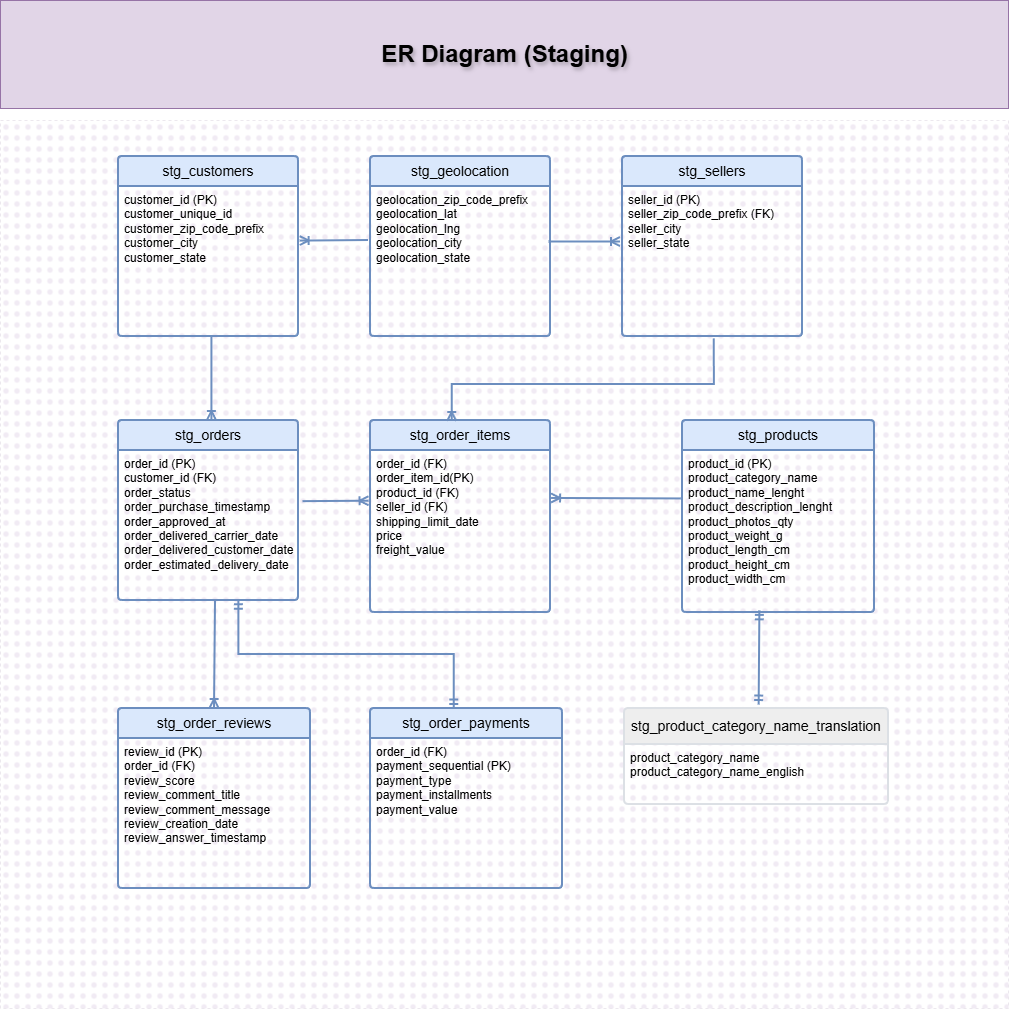
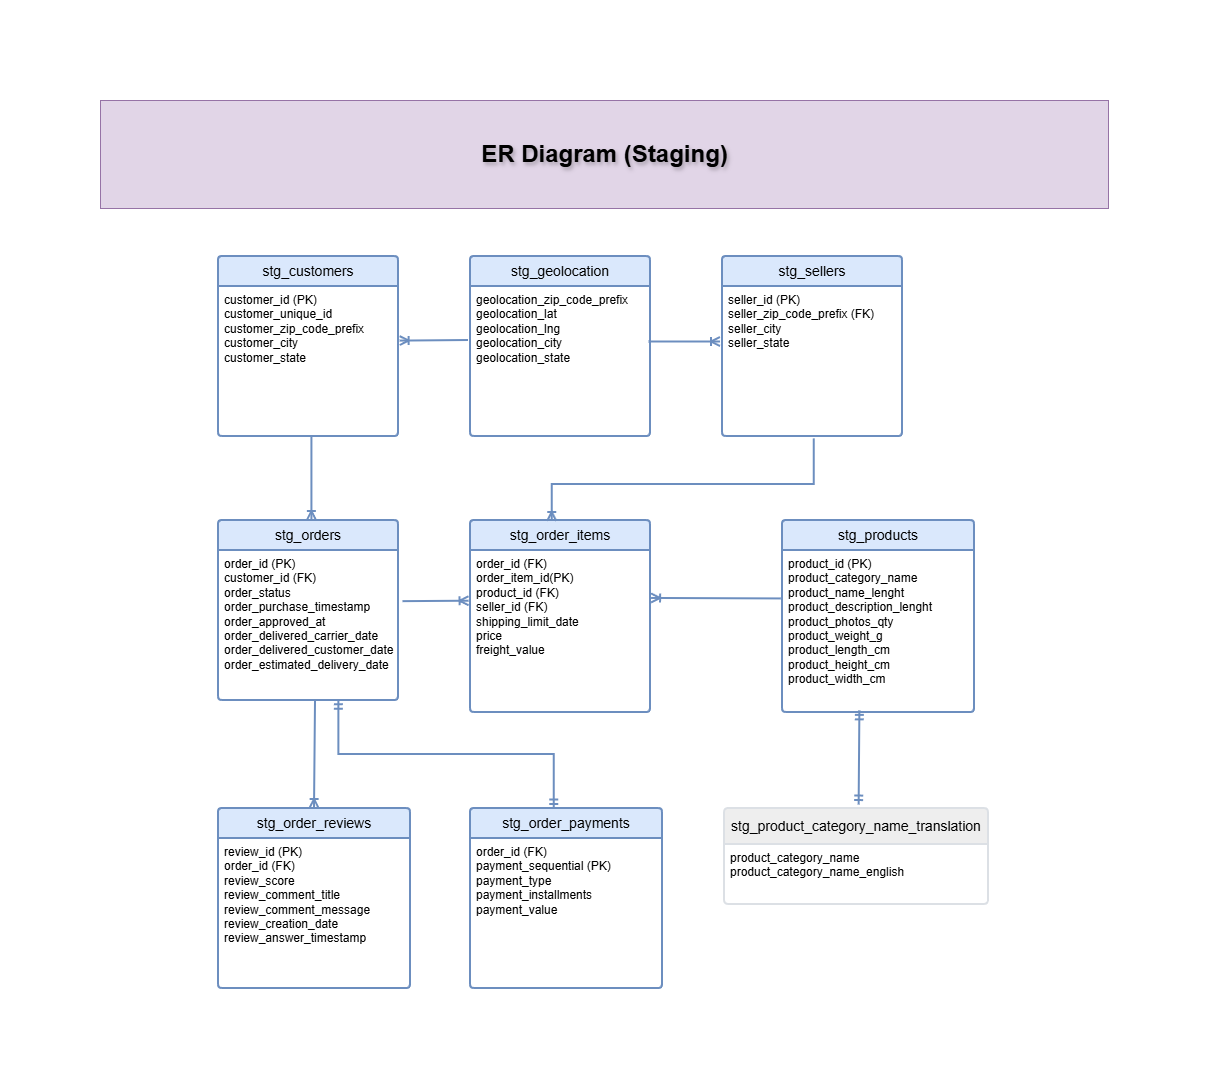
Diagram for Data Architecture Diagram

diff --git a/README.md b/README.md
@@ -19,49 +19,11 @@ This project builds on my SQL skills and applies them to real-world business ana
    
 
 ## 🏗 Data Architecture Diagram  
+ 
 <details>
-       <summary> Run ETL Pipeline</summary>    
-                            
-                                          +--------------+
-                                          |  Raw CSV     |
-                                          | (Olist Data) |
-                                          +--------------+
-                                                 │
-                                                 ▼
-                                          +--------------+
-                                          |   Extract    |
-                                          |  Python ETL  |
-                                          +--------------+
-                                                 │
-                                                 ▼
-                                          +--------------+
-                                          |   Transform  |
-                                          | Data Cleaning|
-                                          +--------------+
-                                                 │
-                                                 ▼
-                                          +--------------+
-                                          |  Staging DB  |
-                                          | SQL Server   |
-                                          +--------------+
-                                                 │
-                                                 ▼
-                                          +--------------+
-                                          | Star Schema  |
-                                          +--------------+
-                                                 │
-                                                 ▼
-                                          +--------------+
-                                          | SQL Analysis |
-                                          +--------------+
-                                                 │
-                                                 ▼
-                                          +--------------+
-                                          |  Dashboard   |
-                                          | Power BI / BI|
-                                          +--------------+
-    
-</details> 
+  <summary> Run ETL Pipeline</summary> 
+     <img src="diagrams/Data-Architecture-Diagram.png" width="700"/> 
+</details>
 
 ## 🧩 ER Diagram (Staging Table) 
 <details>
